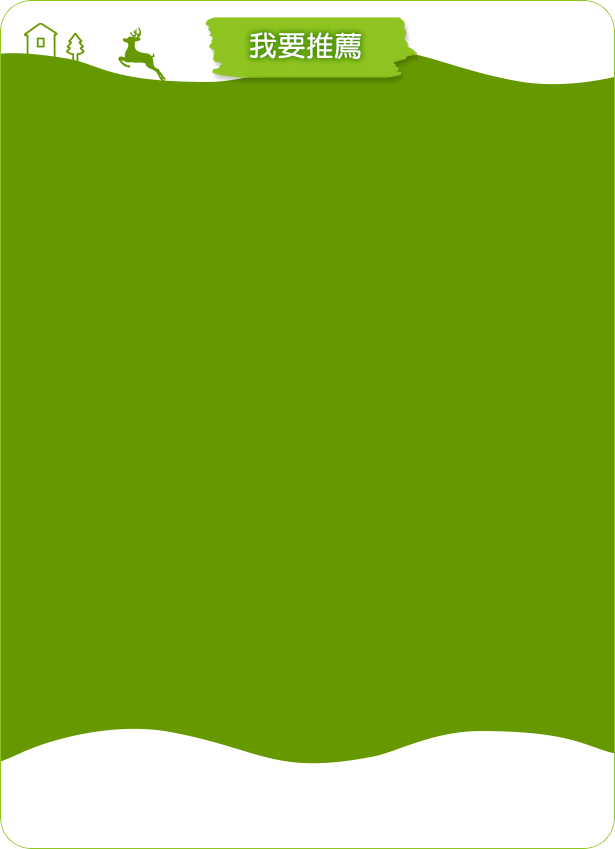
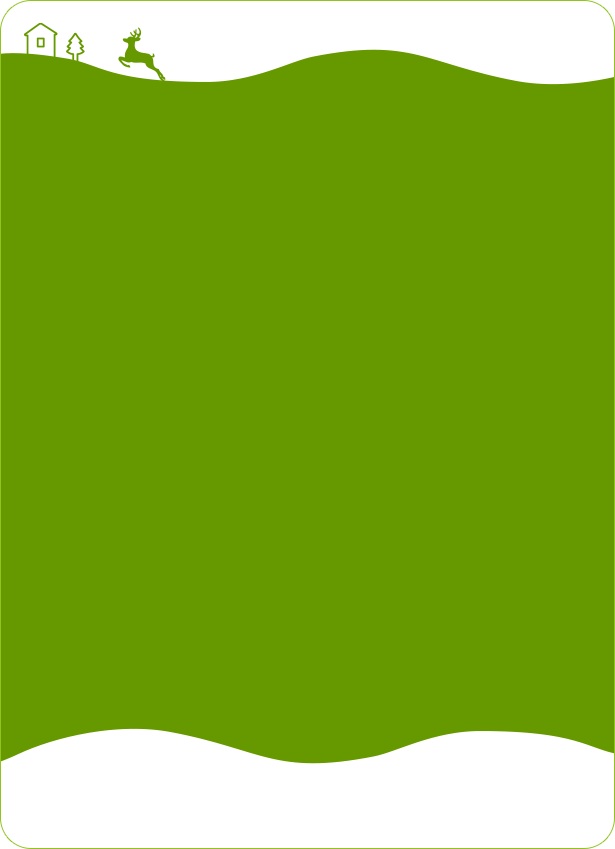
friend select done

Changed region(s): [[0.3398, 0.0, 0.6797, 0.0919]]

diff --git a/eggshell_v01/js/friend.js b/eggshell_v01/js/friend.js
@@ -1,9 +1,23 @@
-var recommend_sites = [];
+var recommend_sites_by_theme = [];
+var _nextShowIndex = 0;
+var recommend_sites_names = [];
+var recommend_sites_by_season = [];
+var recommend_sites_by_nature = [];
+var recommend_sites_by_city = [];
+var recommend_sites_by_fam = [];
 
-function addRankInfoWindow(recommend_sites) {
+function addRankInfoWindowByTheme(recommend_sites, start, show_all) {
 
+    var offset = 5;
+    var end = recommend_sites.length;
 
-    for (var i = 0; i < recommend_sites.length; i++) {
+    if (!show_all) {
+        if ((recommend_sites.length - start) < 5) {
+            offset = recommend_sites.length - start;
+        }
+        end = start + offset;
+    }
+    for (var i = start; i < end; i++) {
 
         var recommend_site = recommend_sites[i];
 
@@ -12,22 +26,81 @@ function addRankInfoWindow(recommend_sites) {
         var img = recommend_site[2];
         var travel_logo = recommend_site[3];
 
-        $('#theme-info-window .info-window-row[data-id=clone_me]').clone().appendTo('#theme-info-window .info-window-wrap').attr('data-id', i);
+        $('#theme-info-window .info-window-row[data-id=clone_me]').clone().appendTo('#theme-info-window .info-window-wrap').attr('data-id', i).addClass('replica');
         $('#theme-info-window .info-window-row[data-id=' + i + ']').find('.theme_bg-marker > p').text(title);
         $('#theme-info-window .info-window-row[data-id=' + i + ']').find('.info-window-row-content > .map-content-description').text(description_content);
         $('#theme-info-window .info-window-row[data-id=' + i + ']').find('.recommend-img > img').attr('src', img);
         $('#theme-info-window .info-window-row[data-id=' + i + ']').find('.travel-logo').attr('src', travel_logo);
         $('#theme-info-window .info-window-row[data-id=' + i + ']').css('display', 'block');
-    };
+    }
+
+    _nextShowIndex = i;
+
+    if (recommend_sites.length <= offset || _nextShowIndex >= recommend_sites.length) {
+        $("#rank-show-green").css('display', 'none');
+    }
 }
 
 $(document).ready(function() {
-    recommend_sites = [
-        ['title0', 'content0', 'https://unsplash.it/200/200', 'https://unsplash.it/100/100'],
-        ['title1', 'content1', 'https://unsplash.it/200/200', 'https://unsplash.it/100/100'],
-        ['title2', 'content2', 'https://unsplash.it/200/200', 'https://unsplash.it/100/100'],
-        ['title3', 'content3', 'https://unsplash.it/200/200', 'https://unsplash.it/100/100'],
+    recommend_sites_by_season = [
+        ['seasontitle0', 'content0', 'https://unsplash.it/200/200', 'https://unsplash.it/100/100'],
+        ['seasontitle1', 'content1', 'https://unsplash.it/200/200', 'https://unsplash.it/100/100'],
+        ['seasontitle2', 'content2', 'https://unsplash.it/200/200', 'https://unsplash.it/100/100'],
+        ['seasontitle3', 'content3', 'https://unsplash.it/200/200', 'https://unsplash.it/100/100'],
     ];
 
-    addRankInfoWindow(recommend_sites);
+    recommend_sites_by_nature = [
+        ['naturetitle0', 'content0', 'https://unsplash.it/200/200', 'https://unsplash.it/100/100'],
+        ['naturetitle1', 'content1', 'https://unsplash.it/200/200', 'https://unsplash.it/100/100'],
+        ['naturetitle2', 'content2', 'https://unsplash.it/200/200', 'https://unsplash.it/100/100'],
+        ['naturetitle3', 'content3', 'https://unsplash.it/200/200', 'https://unsplash.it/100/100'],
+    ];
+
+    recommend_sites_by_city = [
+        ['citytitle0', 'content0', 'https://unsplash.it/200/200', 'https://unsplash.it/100/100'],
+        ['citytitle1', 'content1', 'https://unsplash.it/200/200', 'https://unsplash.it/100/100'],
+        ['citytitle2', 'content2', 'https://unsplash.it/200/200', 'https://unsplash.it/100/100'],
+        ['citytitle3', 'content3', 'https://unsplash.it/200/200', 'https://unsplash.it/100/100'],
+    ];
+
+    recommend_sites_by_fam = [
+        ['famtitle0', 'content0', 'https://unsplash.it/200/200', 'https://unsplash.it/100/100'],
+        ['famtitle1', 'content1', 'https://unsplash.it/200/200', 'https://unsplash.it/100/100'],
+        ['famtitle2', 'content2', 'https://unsplash.it/200/200', 'https://unsplash.it/100/100'],
+        ['famtitle3', 'content3', 'https://unsplash.it/200/200', 'https://unsplash.it/100/100'],
+        ['famtitle0', 'content0', 'https://unsplash.it/200/200', 'https://unsplash.it/100/100'],
+        ['famtitle1', 'content1', 'https://unsplash.it/200/200', 'https://unsplash.it/100/100'],
+        ['famtitle2', 'content2', 'https://unsplash.it/200/200', 'https://unsplash.it/100/100'],
+        ['famtitle3', 'content3', 'https://unsplash.it/200/200', 'https://unsplash.it/100/100'],
+    ];
+
+    recommend_sites_names = [recommend_sites_by_season, recommend_sites_by_nature, recommend_sites_by_city, recommend_sites_by_fam];
+
+    recommend_sites_by_theme = recommend_sites_names[0];
+
+    addRankInfoWindowByTheme(recommend_sites_by_theme, _nextShowIndex, false);
+
+    $("#rank-show-green").click(function() {
+
+        addRankInfoWindowByTheme(recommend_sites_by_theme, _nextShowIndex, false);
+    });
+
+    $(".theme-type > p").click(function() {
+    
+        $(".theme-type").removeClass('current-select');
+
+        $(this).parent().addClass('current-select');
+
+        var select_theme_index = $(this).parent().attr('data-id');
+
+        recommend_sites_by_theme = recommend_sites_names[select_theme_index];
+
+        _nextShowIndex = 0;
+
+        $(".replica").remove();
+
+        addRankInfoWindowByTheme(recommend_sites_by_theme, _nextShowIndex, false);
+
+        $("#rank-show-green").css('display', 'block');
+    });
 });

diff --git a/eggshell_v01/friend.html b/eggshell_v01/friend.html
@@ -104,9 +104,28 @@
             <div class="currnent-path">
                 <p>首頁 > 親子團行程</p>
             </div>
+            <img class="main-friend" src="img/friend/main_friend.png" />
+            <div class="theme-group">
+                <div data-id="0" class="theme-type current-select">
+                    <p>季節限定</p>
+                    <div class="line-spacing"></div>
+                </div>
+                <div data-id="1" class="theme-type">
+                    <p>擁抱自然</p>
+                    <div class="line-spacing"></div>
+                </div>
+                <div data-id="2" class="theme-type">
+                    <p>城鄉漫遊</p>
+                    <div class="line-spacing"></div>
+                </div>
+                <div data-id="3" class="theme-type" style="margin-right: 1px;">
+                    <p>秘境精選</p>
+                </div>
+                <div class="fixed-main-line"></div>
+            </div>
             <div id="theme-info-window">
                 <div class="info-window-wrap">
-                    <div data-id="clone_me" class="info-window-row">
+                    <div data-id="clone_me" class="info-window-row" style="display: none;">
                         <div class="theme_bg-marker">
                             <img class="theme_bg-btn" src="img/friend/theme_bg.png" />
                             <p>端午連假~九寮溪生態</p>
@@ -123,27 +142,29 @@
                         </div>
                         <img class="travel-logo" src="https://unsplash.it/100/100" />
                         <img class="attend-btn" src="img/friend/attend.png" />
-                        <div class="fixed-line"><div>
+                        <div class="fixed-line">
+                            <div>
+                            </div>
+                        </div>
                     </div>
                 </div>
             </div>
-        </div>
-    </div>
-    <footer>
-        <img src="img/main/eggshell_footer.png" />
-    </footer>
-    <script src="js/GA.pageview.js"></script>
-    <script type="text/javascript" src="js/libs/jquery-1.10.2.min.js"></script>
-    <script type="text/javascript" src="js/libs/jquery-ui-1.10.2.custom.min.js"></script>
-    <script type="text/javascript" src="js/libs/jqueryEasing-1.9.1.min.js"></script>
-    <script type="text/javascript" src="js/libs/modernizr-2.6.2.min.js"></script>
-    <script type="text/javascript" src="js/libs/TweenMax.min.js"></script>
-    <script type="text/javascript" src="js/main.js"></script>
-    <script type="text/javascript" src="js/index.js"></script>
-    <script type="text/javascript" src="js/map.js"></script>
-    <!-- friend.js 繼承了 map.js -->
-    <script type="text/javascript" src="js/friend.js"></script>
-    <script type="text/javascript" src="js/pop.js"></script>
+            <img id="rank-show-green" class="green-more" src="img/friend/green_more.png" />
+            <footer>
+                <img src="img/main/eggshell_footer.png" />
+            </footer>
+            <script src="js/GA.pageview.js"></script>
+            <script type="text/javascript" src="js/libs/jquery-1.10.2.min.js"></script>
+            <script type="text/javascript" src="js/libs/jquery-ui-1.10.2.custom.min.js"></script>
+            <script type="text/javascript" src="js/libs/jqueryEasing-1.9.1.min.js"></script>
+            <script type="text/javascript" src="js/libs/modernizr-2.6.2.min.js"></script>
+            <script type="text/javascript" src="js/libs/TweenMax.min.js"></script>
+            <script type="text/javascript" src="js/main.js"></script>
+            <script type="text/javascript" src="js/index.js"></script>
+            <script type="text/javascript" src="js/map.js"></script>
+            <!-- friend.js 繼承了 map.js -->
+            <script type="text/javascript" src="js/friend.js"></script>
+            <script type="text/javascript" src="js/pop.js"></script>
 </body>
 
 </html>

diff --git a/eggshell_v01/css/friend.css b/eggshell_v01/css/friend.css
@@ -30,9 +30,8 @@
     height: 210px;
 }
 
-
 #theme-info-window .recommend-img > img {
-	max-width: 220px;
+    max-width: 220px;
     max-height: 220px;
 }
 
@@ -87,4 +86,53 @@
     width: 85%;
     height: 1px;
     background: #acbb22;
+}
+
+.main-friend {
+    border: 1px solid #acbb22;
+    border-radius: 55px;
+}
+
+.green-more {
+    margin-bottom: 20px;
+    margin: auto;
+}
+
+.theme-group {
+    position: relative;
+    margin-top: 30px;
+    margin-bottom: 30px;
+}
+
+.theme-type {
+    display: inline-block;
+}
+
+.theme-type > p {
+    color: #3e6100;
+}
+
+.fixed-main-line {
+    position: absolute;
+    left: 0;
+    right: 0;
+    bottom: -15px;
+    margin: auto;
+    z-index: 10;
+    width: 85%;
+    height: 1px;
+    background: #acbb22;
+}
+
+.line-spacing {
+    display: inline-block;
+    width: 1px;
+    height: 20px;
+    background: #acbb22;
+    margin-left: 20px;
+    margin-right: 20px;
+}
+
+.current-select > p {
+    color: #c2171d;
 }

diff --git a/eggshell_v01/event.html b/eggshell_v01/event.html
@@ -95,6 +95,7 @@
     <div class="popup">
         <div class="popup-box">
             <!--test by pop.html-->
+            <img class="recommend-bg-title" src="img/pop/recommend_bg_title.png" />
             <form action="" method="post" enctype="multipart/form-data">
                 <div style="display: none;">
                     Select image to upload:

diff --git a/eggshell_v01/css/pop.css b/eggshell_v01/css/pop.css
@@ -23,6 +23,14 @@
     animation: shadow 2s infinite;
 }
 
+.recommend-bg-title {
+    position: absolute;
+    top: 20px;
+    left: 50%;
+    display: block;
+    transform: translateX(-50%);
+}
+
 .popup-opacity {
     position: fixed;
     height: 100%;
